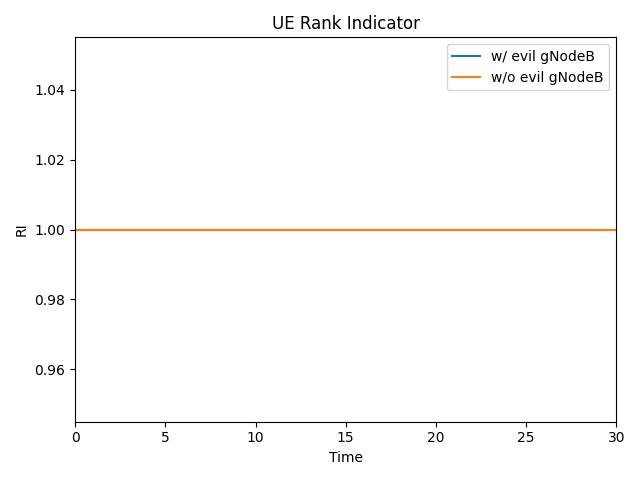
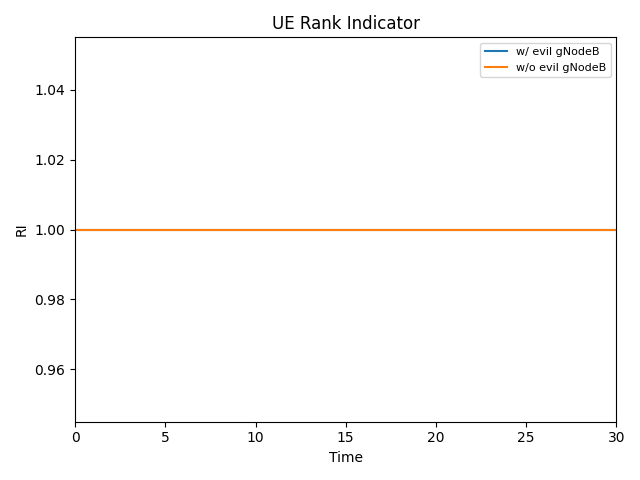
Added in the ability to specify font size

Changed region(s): [[0.6875, 0.0625, 0.9688, 0.1875]]

diff --git a/scripts/writeExperimentGraphs.py b/scripts/writeExperimentGraphs.py
@@ -184,10 +184,15 @@ def outputGraph(graphName, graphFilename, graphTitle, graphParamDict, args):
         ax = plt.gca()
         ax.set_xlim(int(graphParamDict['xaxisMin']),int(graphParamDict['xaxisMax']))
 
+    fontSize = 'medium'
+    if 'legendFontSize' in graphParamDict:
+        fontSize = int(graphParamDict['legendFontSize'])
+
     if 'legendLocation' in graphParamDict and len(graphParamDict['legendLocation']) > 0:
-        plt.legend(loc=graphParamDict['legendLocation'])
+        plt.legend(loc=graphParamDict['legendLocation'], fontsize=fontSize)
     else:
-        plt.legend(loc="best")
+        plt.legend(loc="best", fontsize=fontSize)
+    
     
     plt.gcf().set_tight_layout(True)
 
